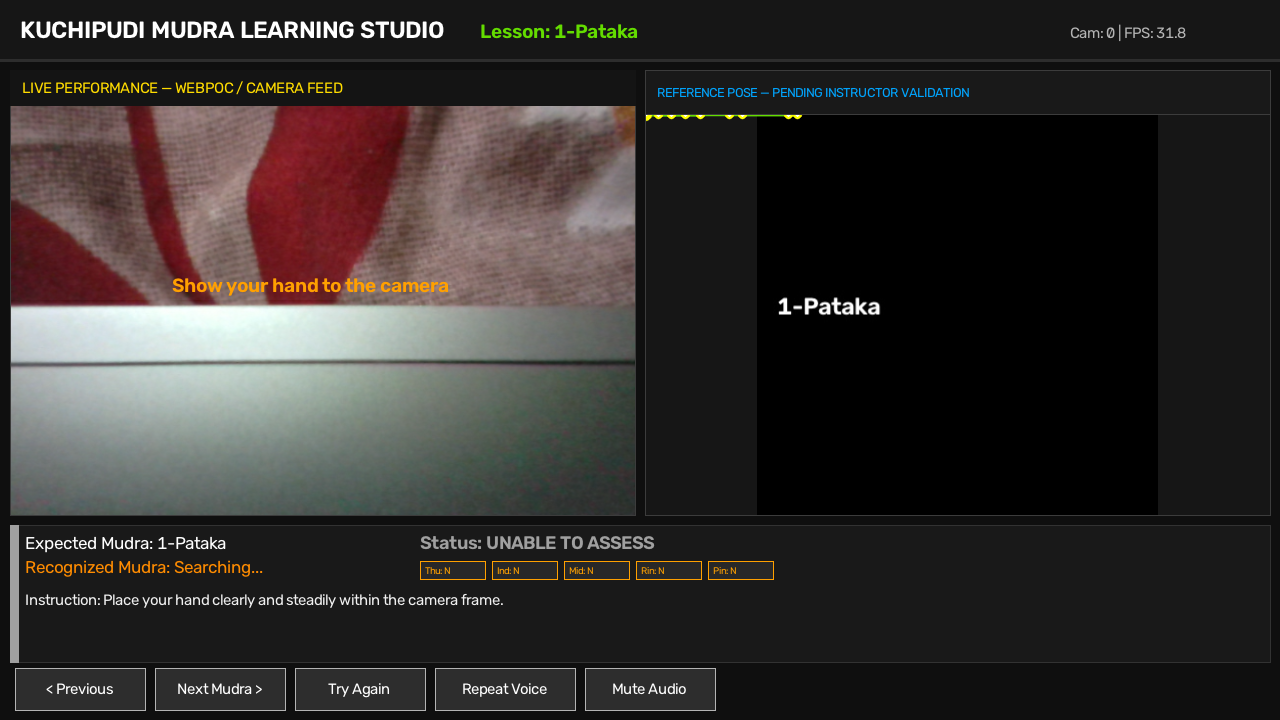
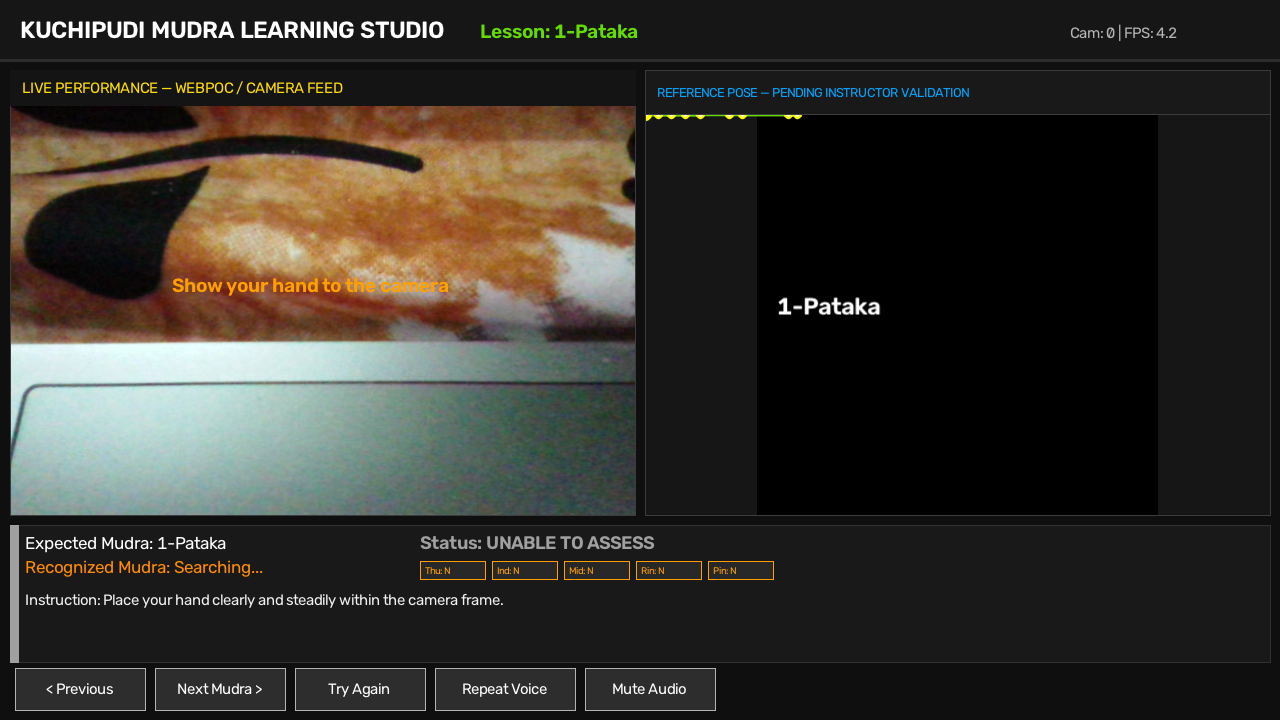
fix(kiosk): improve landmark rendering, dual-handedness, reference handling, and add visualization tests
- Fix correction_engine.draw_correction_skeleton to accept both MediaPipe landmark objects and numpy arrays
  with dark backing lines for high-contrast visibility against any background
- Add dual-handedness support in recognition_engine: test both direct and x-flipped coordinates,
  select highest-confidence canonical orientation for accurate left/right hand recognition
- Set V1 as the default model in recognition_engine.__init__ (was V4)
- Add hand_landmarks and handedness fields to MudraRecognitionResult for raw landmark pass-through
- Improve reference panel placeholder text to 'Authentic instructor reference pending'
- Add test_landmark_visualization_data: validates skeleton drawing with mock MediaPipe landmarks
- Add test_missing_reference_handling: validates graceful panel rendering for unknown mudras
- All 18 automated tests passing

Changed region(s): [[0.0, 0.1222, 0.5, 0.7333], [0.9062, 0.0306, 0.9375, 0.0611]]

diff --git a/src/recognition_engine.py b/src/recognition_engine.py
@@ -60,6 +60,8 @@ class MudraRecognitionResult:
         expected_mudra: str = "",
         is_expected_match: bool = False,
         smoothed: bool = True,
+        hand_landmarks: Optional[Any] = None,
+        handedness: Optional[str] = None,
     ) -> None:
         self.hand_detected = hand_detected
         self.predicted_mudra = predicted_mudra
@@ -73,6 +75,8 @@ class MudraRecognitionResult:
         self.expected_mudra = expected_mudra
         self.is_expected_match = is_expected_match
         self.smoothed = smoothed
+        self.hand_landmarks = hand_landmarks
+        self.handedness = handedness or ""
 
     def to_dict(self) -> Dict[str, Any]:
         return {
@@ -84,6 +88,7 @@ class MudraRecognitionResult:
             "expected_mudra": self.expected_mudra,
             "is_expected_match": self.is_expected_match,
             "palm_orientation": self.palm_orientation,
+            "handedness": self.handedness,
         }
 
 
@@ -125,7 +130,7 @@ class MudraRecognitionEngine:
 
     def __init__(
         self,
-        default_model: str = "V4",
+        default_model: str = "V1",
         min_detection_confidence: float = 0.5,
         smoothing_window: int = 7,
         confidence_threshold: float = 0.35,
@@ -134,7 +139,7 @@ class MudraRecognitionEngine:
         self.min_detection_confidence = min_detection_confidence
         self.confidence_threshold = confidence_threshold
         self.hand_landmarker_path = hand_landmarker_path
-        self.active_model_key = default_model if default_model in self.AVAILABLE_MODELS else "V4"
+        self.active_model_key = default_model if default_model in self.AVAILABLE_MODELS else "V1"
 
         # Initialize detector
         self.detector = MediaPipeHandDetector(
@@ -250,19 +255,47 @@ class MudraRecognitionEngine:
         # Extract features according to active model specification
         active_cfg = self.AVAILABLE_MODELS[self.active_model_key]
         feature_cfg_name = active_cfg["feature_config"]
-
-        if feature_cfg_name == "control":
-            input_vector = norm_63.reshape(1, -1)
-            feat_98 = extract_v4_features(norm_pts, feature_config="angles_distances")
-        else:
-            feat_98 = extract_v4_features(norm_pts, feature_config="angles_distances")
-            input_vector = feat_98.reshape(1, -1)
-
-        # Run model prediction
         model = self._load_model(self.active_model_key)
-        raw_pred = str(model.predict(input_vector)[0])
-        probabilities = model.predict_proba(input_vector)[0]
-        raw_conf = float(np.max(probabilities))
+
+        def _get_pred_for_pts(p_21_3: np.ndarray) -> Tuple[str, float]:
+            if feature_cfg_name == "control":
+                vec = p_21_3.flatten().reshape(1, -1)
+            else:
+                f_98 = extract_v4_features(p_21_3, feature_config="angles_distances")
+                vec = f_98.reshape(1, -1)
+            pred = str(model.predict(vec)[0])
+            probs = model.predict_proba(vec)[0]
+            conf = float(np.max(probs))
+            return pred, conf
+
+        # Test both direct and canonicalized (left-to-right flipped) coordinates for dual-handedness
+        norm_pts_flipped = norm_pts.copy()
+        norm_pts_flipped[:, 0] = -norm_pts_flipped[:, 0]
+
+        pred_direct, conf_direct = _get_pred_for_pts(norm_pts)
+        pred_flipped, conf_flipped = _get_pred_for_pts(norm_pts_flipped)
+
+        handedness_label = ""
+        if getattr(result, "handedness", None) and len(result.handedness) > 0:
+            try:
+                handedness_label = result.handedness[0][0].category_name
+            except Exception:
+                handedness_label = ""
+
+        # Select highest-confidence canonical orientation (handles both left and right hands)
+        if conf_flipped > conf_direct + 0.05:
+            raw_pred, raw_conf = pred_flipped, conf_flipped
+            chosen_pts = norm_pts_flipped
+            if not handedness_label:
+                handedness_label = "Left"
+        else:
+            raw_pred, raw_conf = pred_direct, conf_direct
+            chosen_pts = norm_pts
+            if not handedness_label:
+                handedness_label = "Right"
+
+        norm_63 = chosen_pts.flatten()
+        feat_98 = extract_v4_features(chosen_pts, feature_config="angles_distances")
 
         # Temporal smoothing
         self.history.append((raw_pred, raw_conf))
@@ -312,6 +345,8 @@ class MudraRecognitionEngine:
             expected_mudra=expected_mudra,
             is_expected_match=is_match,
             smoothed=True,
+            hand_landmarks=first_hand,
+            handedness=handedness_label,
         )
 
         return res, display_frame

diff --git a/src/correction_engine.py b/src/correction_engine.py
@@ -362,7 +362,7 @@ class MudraCorrectionEngine:
     def draw_correction_skeleton(
         self,
         image_bgr: np.ndarray,
-        landmarks_21_3: np.ndarray,
+        landmarks: Union[Any, np.ndarray],
         finger_statuses: Dict[str, FingerStatus],
     ) -> np.ndarray:
         """Annotates skeleton with color-coded joints based on finger correctness."""
@@ -375,27 +375,59 @@ class MudraCorrectionEngine:
             FingerStatus.INCORRECT: (0, 0, 255),         # Bright Red
         }
 
-        # First draw normal connections in muted cyan
         coords: List[Tuple[int, int]] = []
-        for i in range(21):
-            px = int(np.clip(landmarks_21_3[i, 0] * w, 0, w - 1))
-            py = int(np.clip(landmarks_21_3[i, 1] * h, 0, h - 1))
-            coords.append((px, py))
+        if isinstance(landmarks, (list, tuple)):
+            for lm in landmarks:
+                if hasattr(lm, "x") and hasattr(lm, "y"):
+                    px = int(np.clip(lm.x * w, 0, w - 1))
+                    py = int(np.clip(lm.y * h, 0, h - 1))
+                elif isinstance(lm, (list, tuple)) and len(lm) >= 2:
+                    px = int(np.clip(lm[0] * w, 0, w - 1))
+                    py = int(np.clip(lm[1] * h, 0, h - 1))
+                else:
+                    px, py = 0, 0
+                coords.append((px, py))
+        elif isinstance(landmarks, np.ndarray):
+            pts = landmarks.reshape(21, -1)
+            # Detect whether points are wrist-centered (norm_pts with negative coords) or image-normalized [0, 1]
+            if np.min(pts[:, :2]) < -0.05 or np.max(pts[:, :2]) > 1.05:
+                cx, cy = w / 2.0, h / 2.0
+                span = min(w, h) * 0.4
+                for i in range(21):
+                    px = int(np.clip(cx + pts[i, 0] * span, 0, w - 1))
+                    py = int(np.clip(cy + pts[i, 1] * span, 0, h - 1))
+                    coords.append((px, py))
+            else:
+                for i in range(21):
+                    px = int(np.clip(pts[i, 0] * w, 0, w - 1))
+                    py = int(np.clip(pts[i, 1] * h, 0, h - 1))
+                    coords.append((px, py))
 
+        if len(coords) < 21:
+            return out
+
+        # Draw connections with high contrast outline
         for s_idx, e_idx in HAND_CONNECTIONS:
-            cv2.line(out, coords[s_idx], coords[e_idx], (200, 180, 0), 2, cv2.LINE_AA)
+            pt1 = coords[s_idx]
+            pt2 = coords[e_idx]
+            # Dark backing line for contrast against light backgrounds
+            cv2.line(out, pt1, pt2, (0, 0, 0), 4, cv2.LINE_AA)
+            # Bright cyan foreground line
+            cv2.line(out, pt1, pt2, (255, 200, 0), 2, cv2.LINE_AA)
 
-        # Draw color-coded joint circles per finger
+        # Draw color-coded joint circles per finger with dark outer outline
         for finger_name, joint_idxs in FINGER_INDICES_MAP.items():
             status = finger_statuses.get(finger_name, FingerStatus.CORRECT)
             col = status_colors[status]
             for j_idx in joint_idxs:
                 px, py = coords[j_idx]
+                cv2.circle(out, (px, py), 6, (0, 0, 0), -1, cv2.LINE_AA)
                 cv2.circle(out, (px, py), 5, col, -1, cv2.LINE_AA)
                 cv2.circle(out, (px, py), 2, (255, 255, 255), -1, cv2.LINE_AA)
 
         # Wrist joint (index 0)
-        cv2.circle(out, coords[0], 6, (255, 255, 255), -1, cv2.LINE_AA)
+        cv2.circle(out, coords[0], 8, (0, 0, 0), -1, cv2.LINE_AA)
+        cv2.circle(out, coords[0], 7, (255, 255, 255), -1, cv2.LINE_AA)
         cv2.circle(out, coords[0], 4, (0, 180, 255), -1, cv2.LINE_AA)
 
         return out

diff --git a/tests/test_kiosk_system.py b/tests/test_kiosk_system.py
@@ -72,3 +72,29 @@ def test_kiosk_audio_manager(kiosk_instance):
     kiosk_instance.audio_manager.notify_state(MudraEvaluationState.STATE_A_CORRECT)
     kiosk_instance.audio_manager.notify_state(MudraEvaluationState.STATE_B_WRONG_MUDRA, "Wrong Mudra")
     kiosk_instance.audio_manager.notify_state(MudraEvaluationState.STATE_C_INCORRECT_EXECUTION, "Adjust index")
+
+
+def test_landmark_visualization_data(kiosk_instance):
+    dummy_cam = np.zeros((480, 640, 3), dtype=np.uint8)
+    # Test rendering with 21 MediaPipe mock landmark objects
+    dummy_landmarks = [
+        type("MockLM", (), {"x": 0.2 + 0.02 * i, "y": 0.3 + 0.015 * i, "z": 0.0})()
+        for i in range(21)
+    ]
+    statuses = {f: "Correct" for f in ["Thumb", "Index", "Middle", "Ring", "Pinky"]}
+    annotated = kiosk_instance.corr_engine.draw_correction_skeleton(
+        dummy_cam,
+        dummy_landmarks,
+        statuses,
+    )
+    assert annotated.shape == (480, 640, 3)
+    assert not np.array_equal(annotated, dummy_cam)
+
+
+def test_missing_reference_handling(kiosk_instance):
+    # Test reference visual for missing/unverified mudra
+    vis = kiosk_instance.get_reference_visual("99-NonexistentMudra", (400, 300))
+    assert vis.shape == (300, 400, 3)
+    assert vis.dtype == np.uint8
+    # Should still render the pending validation header
+    assert vis[:44, :].sum() > 0

diff --git a/src/kiosk_app.py b/src/kiosk_app.py
@@ -391,14 +391,14 @@ class InteractiveMudraKiosk:
                 )
 
         if not ref_data or not image_loaded:
-            # Display graceful message when reference is unavailable
+            # Display professional neutral placeholder when reference is unavailable
             cv2.putText(
                 vis,
-                "INSTRUCTOR REFERENCE NOT YET AVAILABLE",
-                (tw // 2 - 190, content_h // 2),
+                "Authentic instructor reference pending",
+                (tw // 2 - 120, content_h // 2),
                 cv2.FONT_HERSHEY_SIMPLEX,
-                0.50,
-                (0, 140, 255),
+                0.55,
+                (0, 180, 200),
                 1,
                 cv2.LINE_AA,
             )
